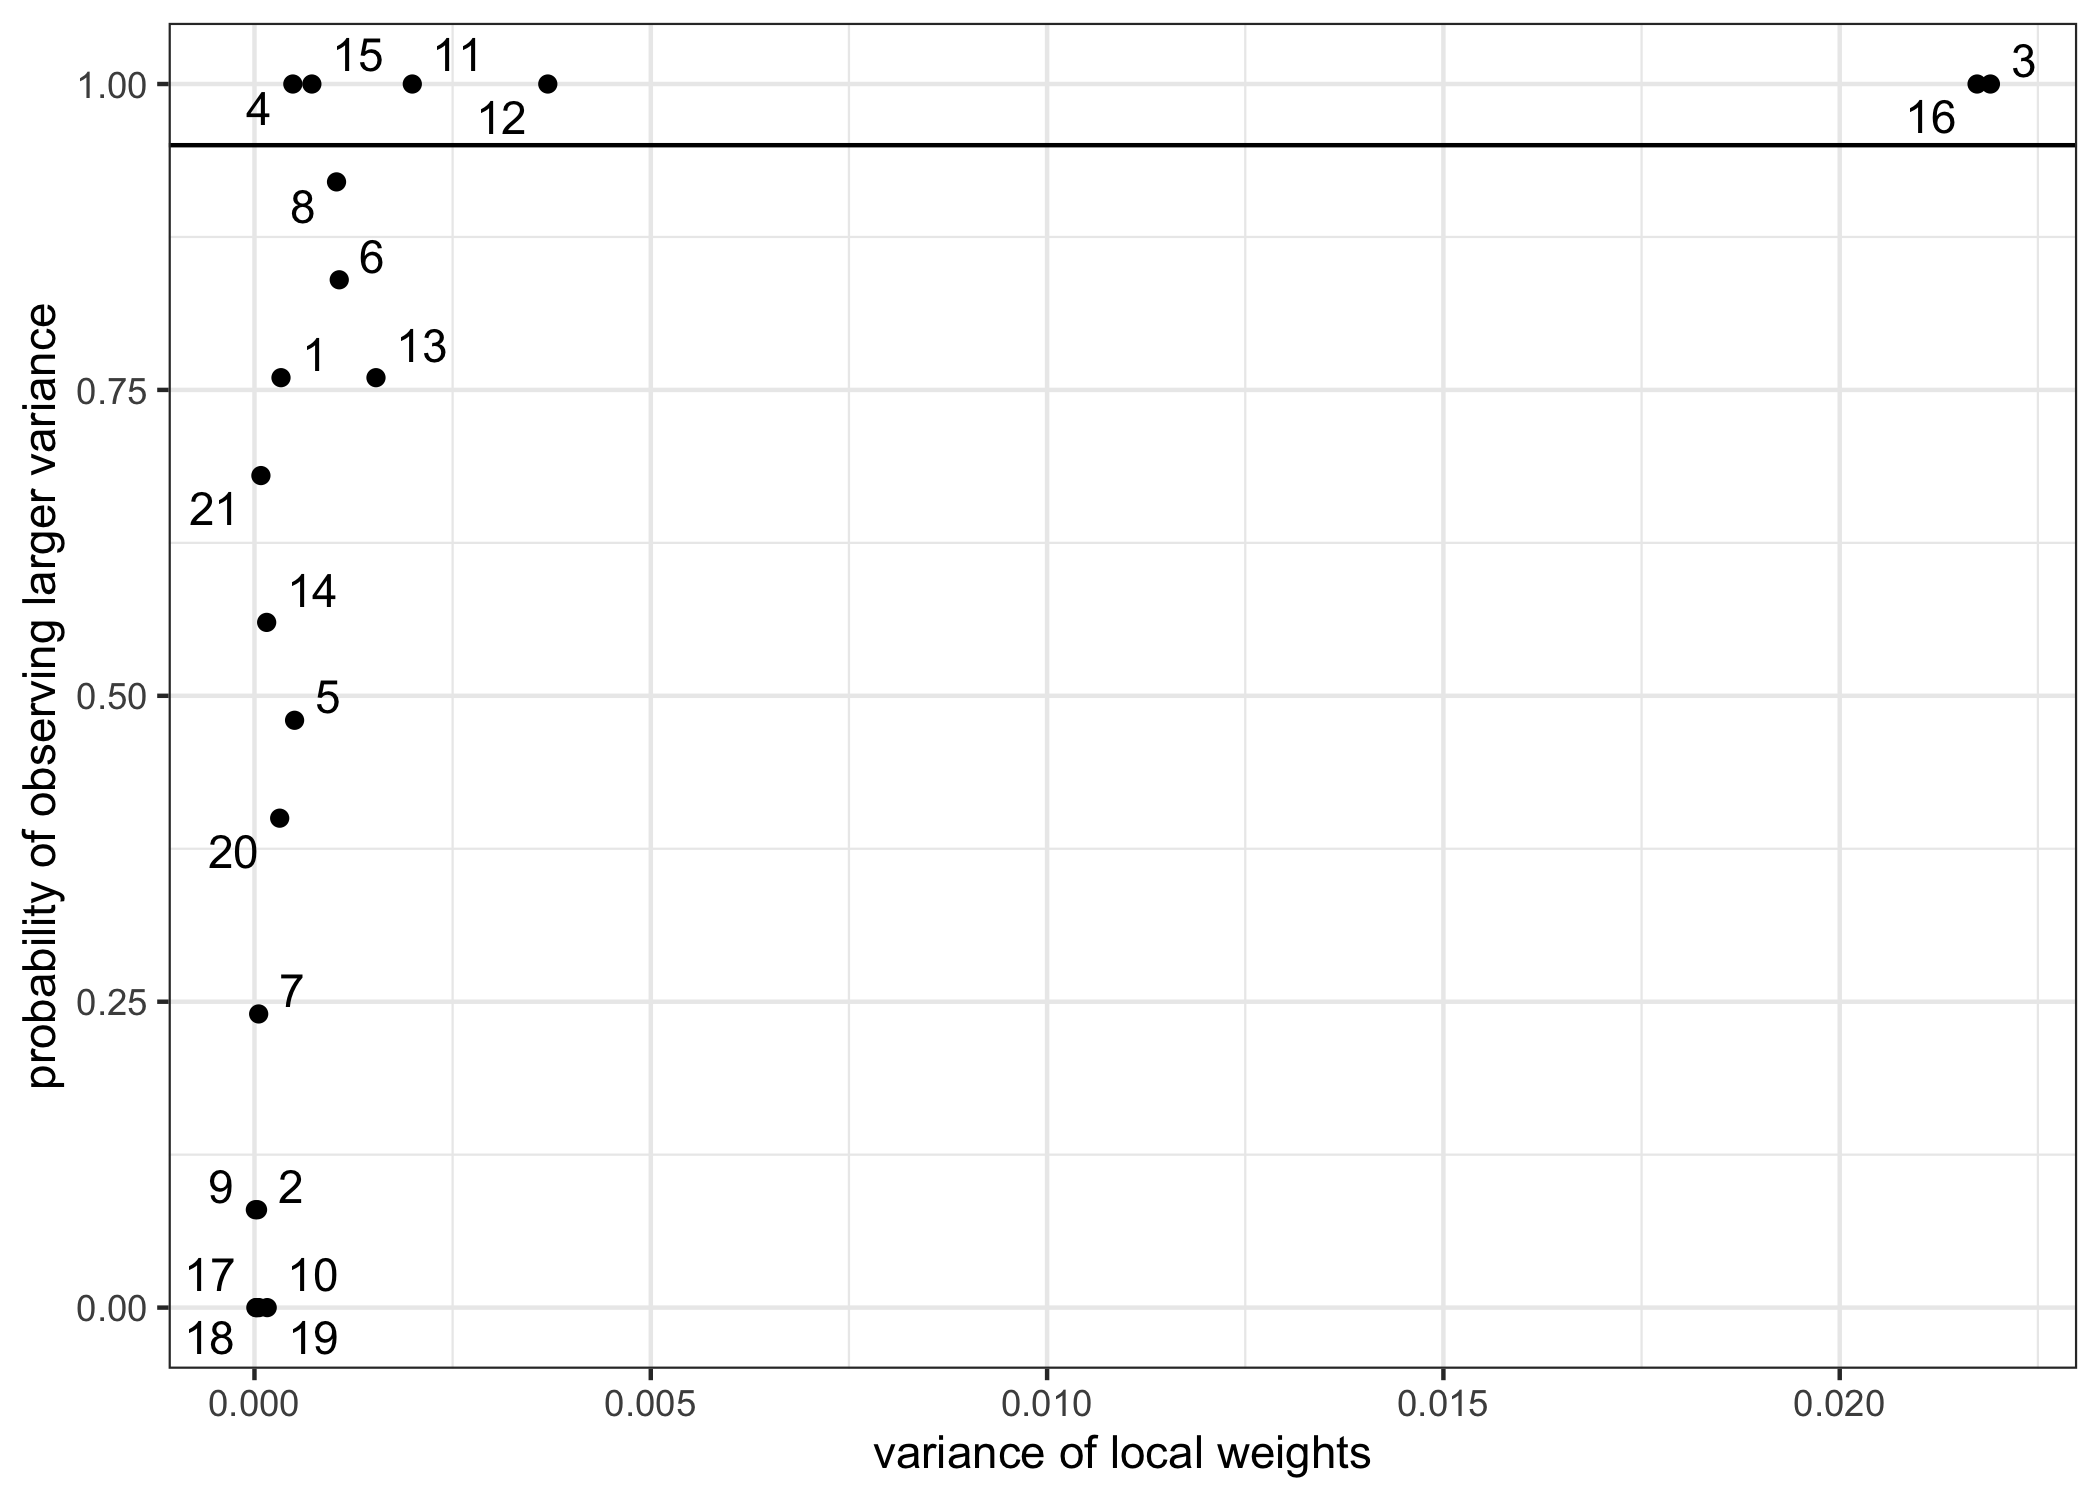
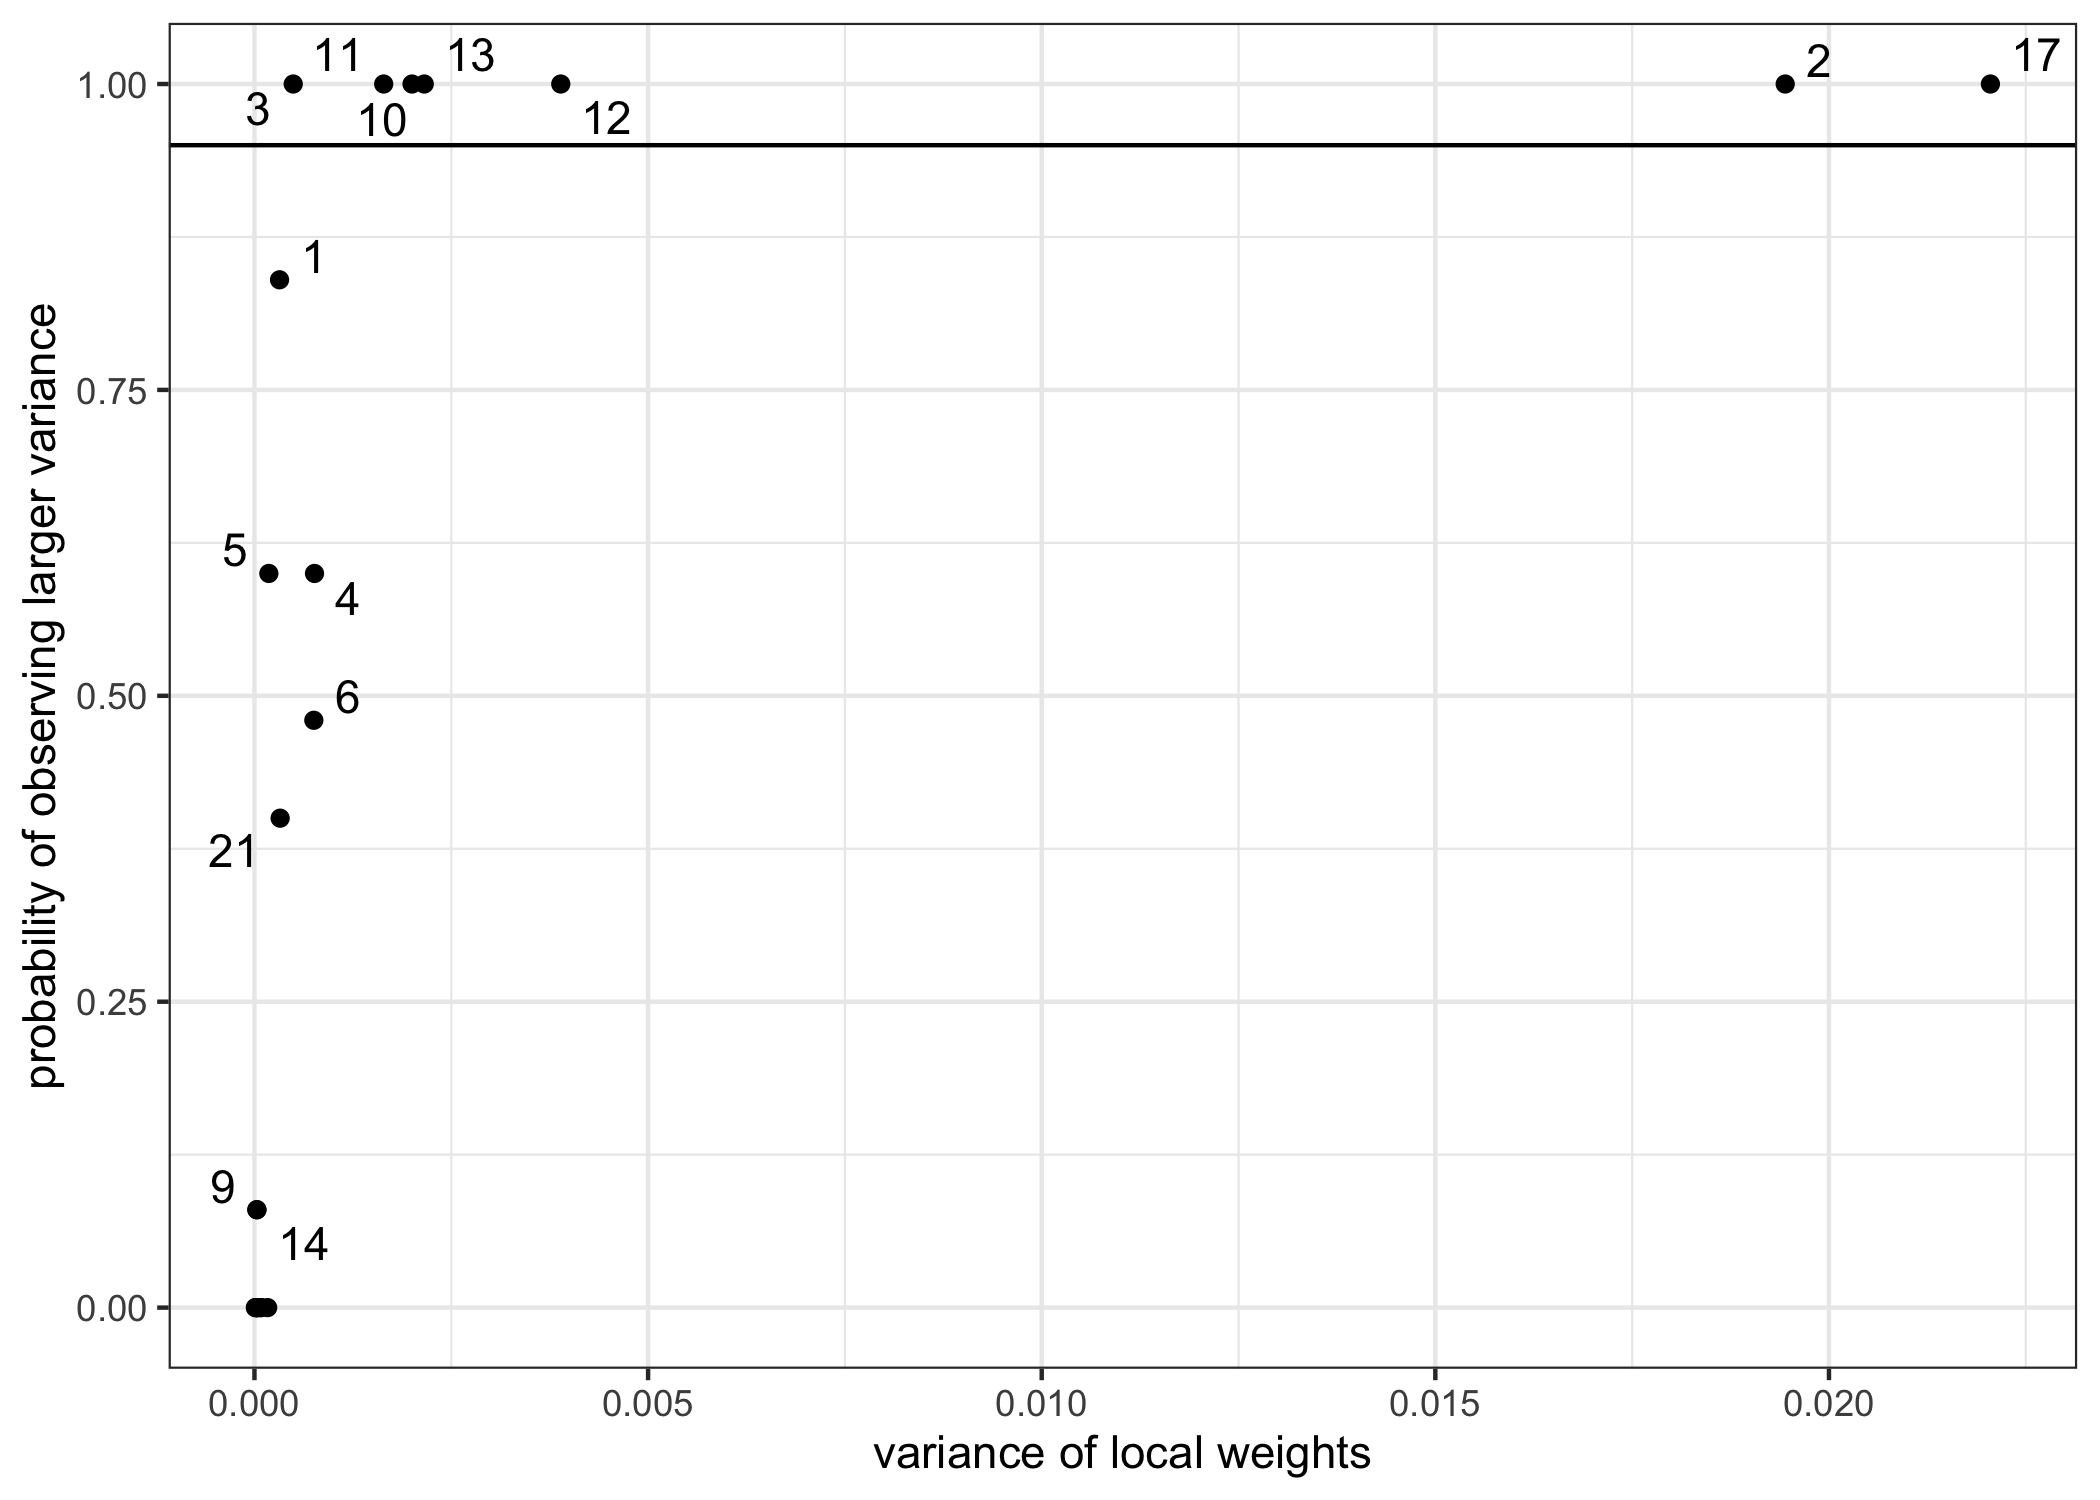
update plots

diff --git a/README.md b/README.md
@@ -419,6 +419,8 @@ local_weights_analysis_vc %>%
   xlab('variance of local weights')+
   ylab('probability of observing larger variance')+
   geom_hline(yintercept = 0.95)
+#> Warning: ggrepel: 8 unlabeled data points (too many overlaps). Consider
+#> increasing max.overlaps
 ```
 
 <img src="man/figures/README-variable motif plot-1.png" width="60%" style="display: block; margin: auto;" />
